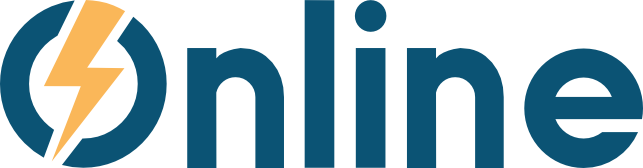
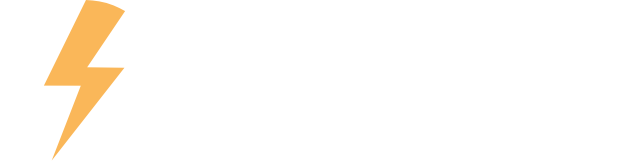
Recoloring of sanity studio

diff --git a/styles/variables.css b/styles/variables.css
@@ -1,0 +1,11 @@
+@import url("https://fonts.googleapis.com/css?family=Nunito&display=swap");
+
+:root {
+  /* Brand colors */
+  --brand-primary: #0d5474;
+  --brand-primary--inverted: #ffffff;
+  --brand-secondary: #f9b759;
+  --brand-secondary--inverted: #5a5a5a;
+  --main-navigation-color: var(--brand-primary);
+  --main-navigation-color--inverted: var(--brand-primary--inverted);
+}
